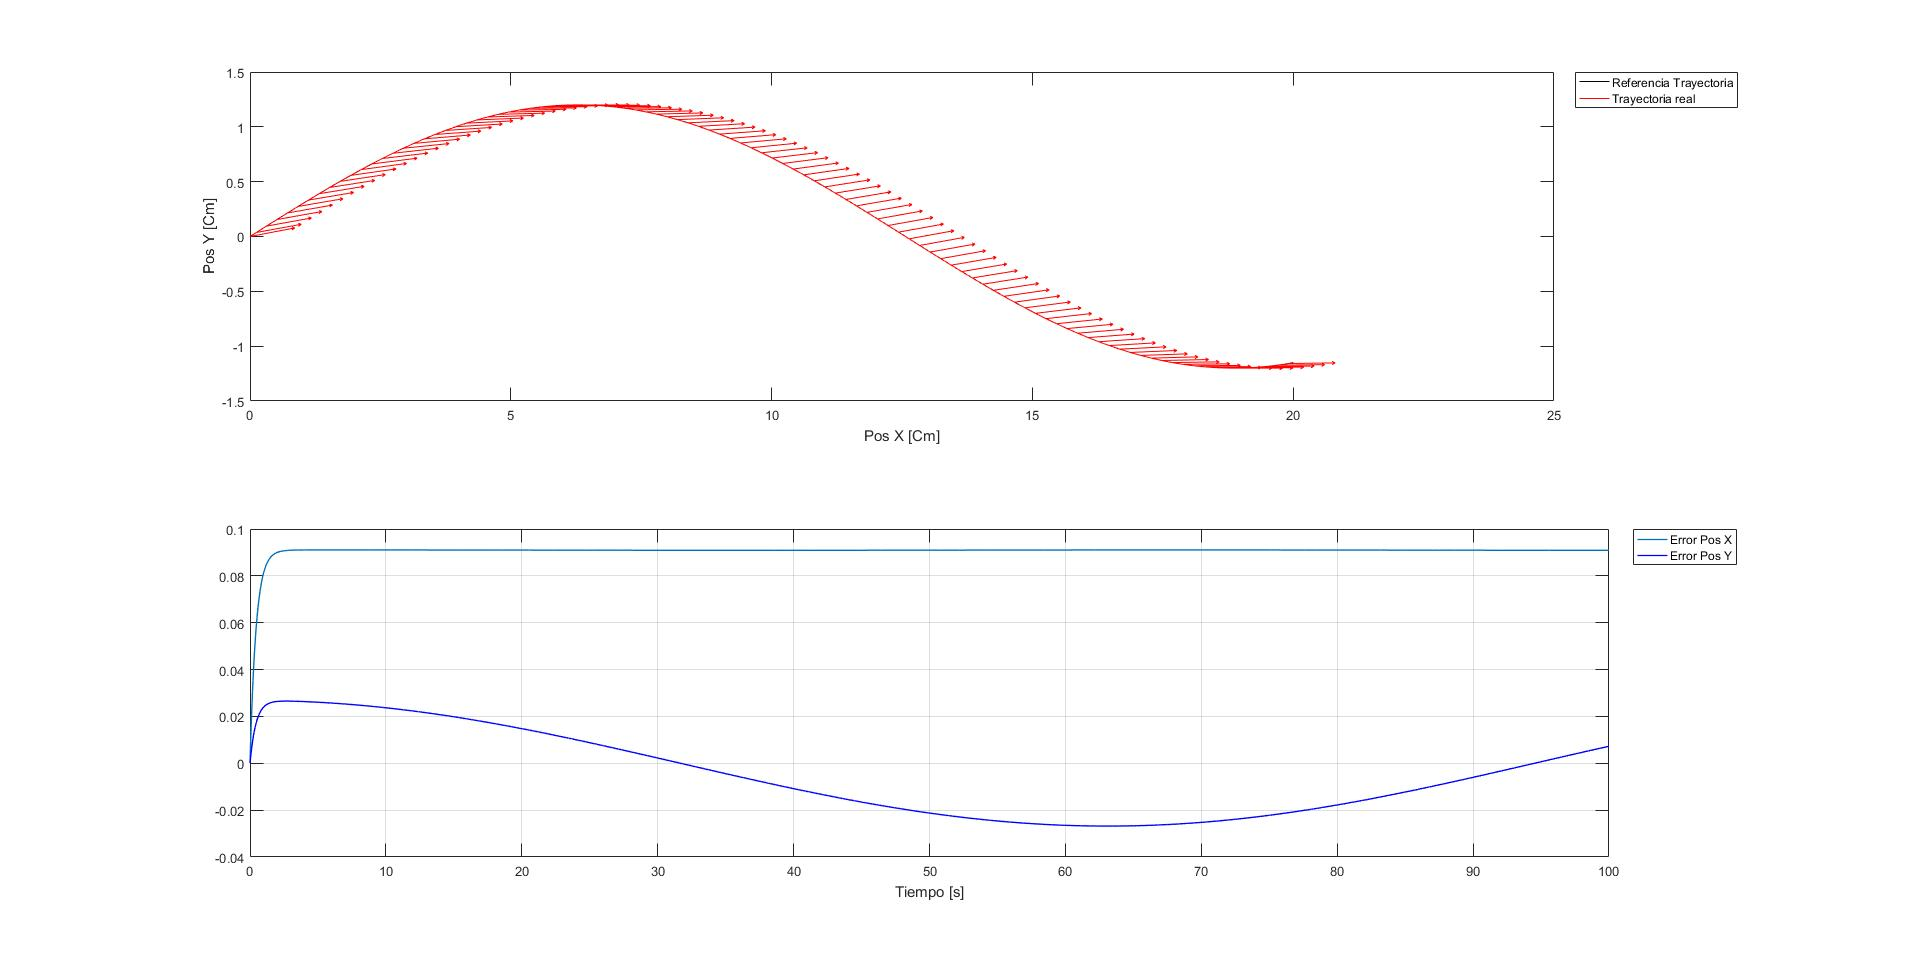
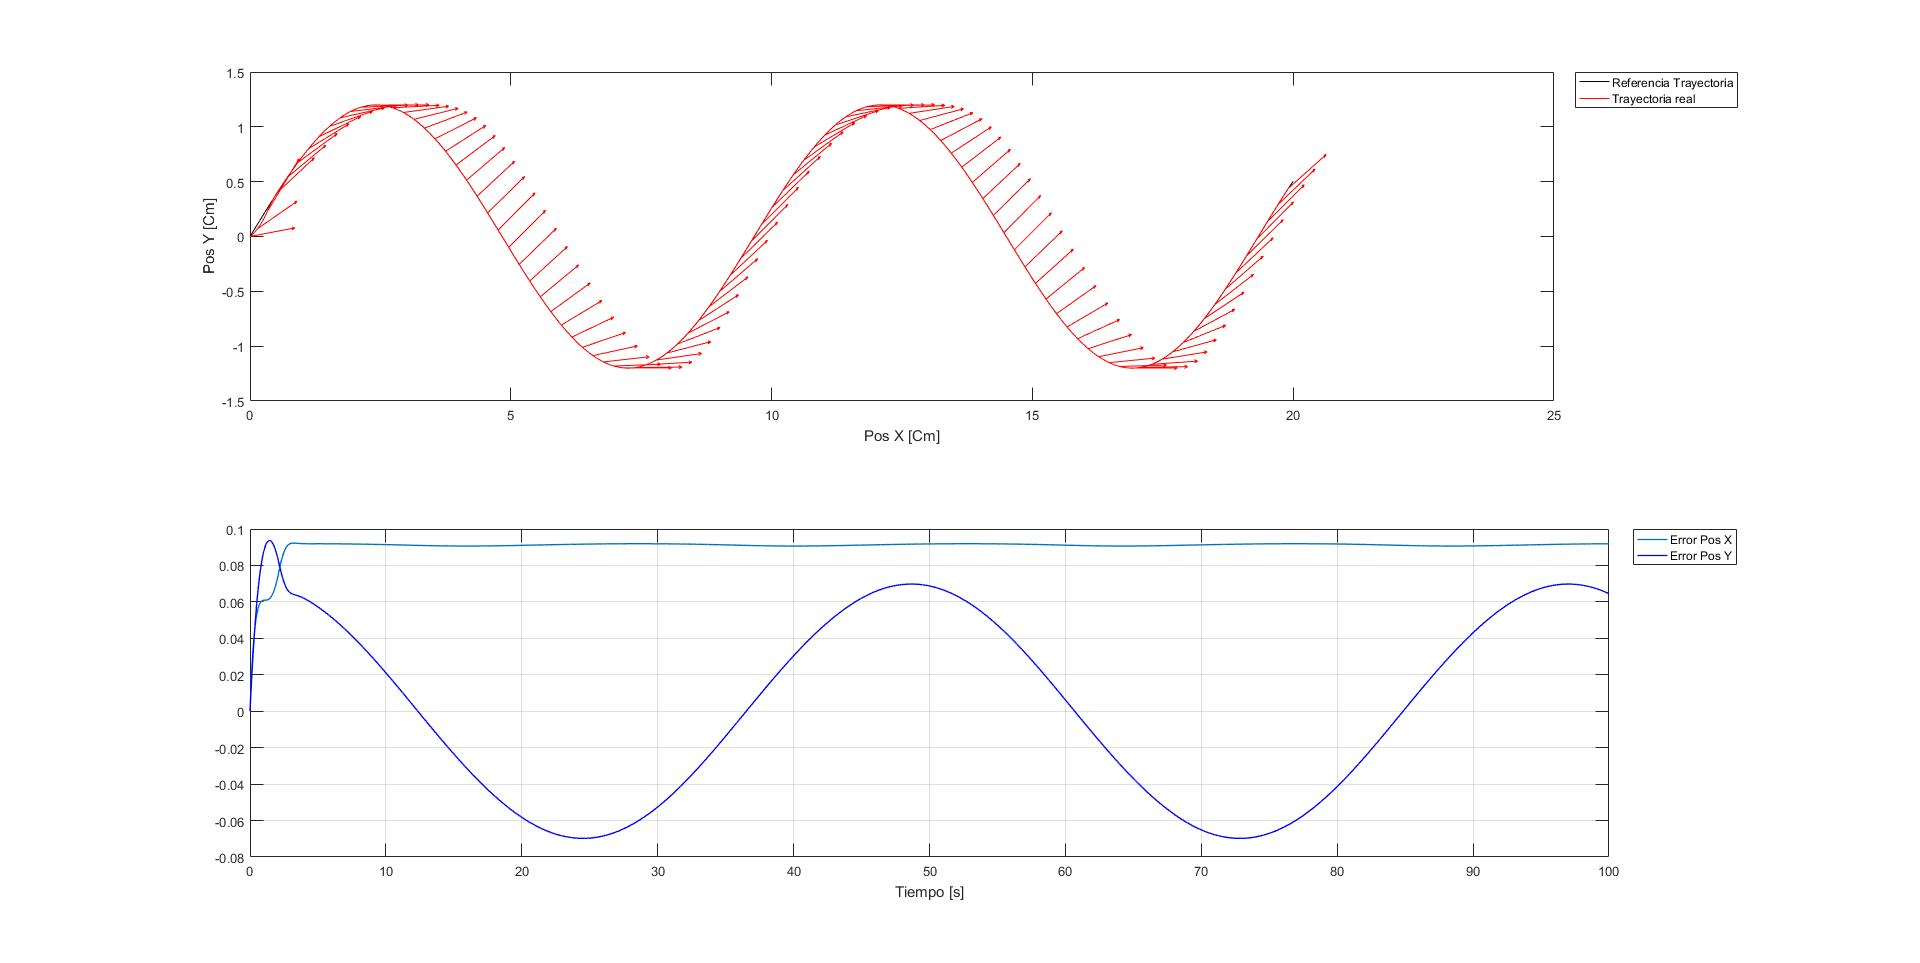
Periodo completo de la señal flama

diff --git a/ControlDinamico/Pure_Pursuit/prueba_persecucionPURA.m b/ControlDinamico/Pure_Pursuit/prueba_persecucionPURA.m
@@ -12,13 +12,13 @@ omega_sat=[-0.2618 0.2618];%15 grados/segundo
 tetha_d_sat=[-0.75 0.75];%Velocidad lineal de 30 cm/seg
 
 % Parametros del seno a seguir
-A=0.2;        % x=A*t
-B=1.2;        % y=B*sin(wt)
-w=0.08;
-
 % A=0.2;        % x=A*t
 % B=1.2;        % y=B*sin(wt)
-% w=0.2;
+% w=0.08;
+
+A=0.2;        % x=A*t
+B=1.2;        % y=B*sin(wt)
+w=0.13;
 
 % Se lanza la simulacion
 sim('sl_robot_sincrono_persecucion_pura');

diff --git a/Latex/0main.tex b/Latex/0main.tex
@@ -695,7 +695,7 @@ Con los valores asignados a los controladores y trayectoria propuesta se present
 	\begin{center}
 		$A=0.2$    \hspace{0.2cm}   
 		$B=1.2$    \hspace{0.2cm} 
-		$w=0.08$ \\
+		$w=0.13$ \\
 	\end{center}
 
 	La disminucion de la amplitud mejora en gran medida al seguimiento de la trayectoria, para nuestro
